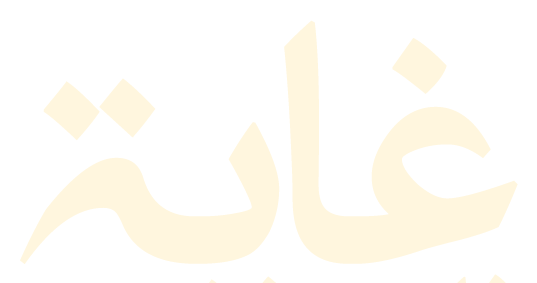
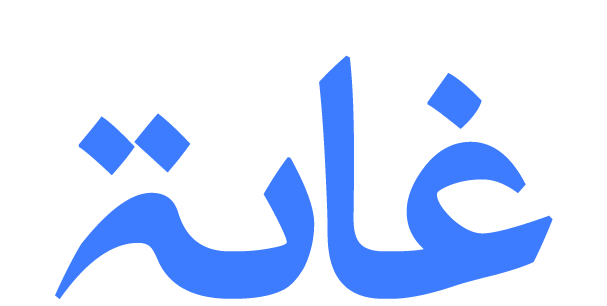
Home page hero/copy rewrite, remove gradient scrim, boost grain, recolor nav mark
- Hero video now shows raw footage with no gradient overlay, matching
  the thisisfr.ee reference
- New hero and "listening" section copy per brief
- GhayaCTA now accepts a custom label so different sections can use
  different CTA text
- Grain overlay opacity bumped from 0.14 to 0.22
- Nav icon recropped with more padding and recolored from cream to
  the brand blue accent, for consistency with the hero wordmark color

diff --git a/app/page.tsx b/app/page.tsx
@@ -33,25 +33,16 @@ export default function Home() {
           loop
           playsInline
         />
-        <div className="absolute inset-0 bg-gradient-to-t from-navy-deep via-navy-deep/50 to-navy-deep/20" />
-        <div className="absolute inset-0 bg-navy-deep/20" />
 
         <div className="relative z-10 w-full px-6 pb-16 md:px-10 md:pb-24">
-          <p className="font-arabic text-6xl leading-none text-fire-soft sm:text-7xl md:text-8xl">
-            غاية
-          </p>
-          <h1 className="mt-4 max-w-3xl font-display text-4xl leading-[1.05] text-balance sm:text-5xl md:text-6xl">
-            Ghaya means passion &amp; purpose.
-            <span className="block text-cream-dim">
-              We help you find yours, and film it.
-            </span>
+          <h1 className="max-w-3xl font-display text-4xl leading-[1.05] text-balance sm:text-5xl md:text-6xl">
+            Human stories come first.
           </h1>
           <p className="mt-6 max-w-xl text-sm text-cream-dim sm:text-base">
-            A production house focused on human storytelling first &mdash;
-            whether it&rsquo;s a narrative documentary or a piece built for
-            social media.
+            We create films built around real people, honest experiences,
+            and ideas worth sharing.
           </p>
-          <GhayaCTA className="mt-10" />
+          <GhayaCTA className="mt-10" label="Tell us your Ghaya" />
         </div>
       </section>
 
@@ -59,16 +50,17 @@ export default function Home() {
       <section className="mx-auto max-w-6xl px-6 py-24 md:px-10 md:py-36">
         <div className="grid gap-12 md:grid-cols-[1fr_1.2fr] md:gap-20">
           <Reveal as="h2" className="font-display text-3xl leading-tight sm:text-4xl">
-            To explore humans and their passion &mdash; and give it a way to
-            be seen.
+            Every good film starts with listening.
           </Reveal>
           <div className="space-y-6 text-cream-dim">
             <Reveal delay={100}>
-              Ghaya is Arabic for <span className="text-cream">purpose</span>.
-              Our goal is simple: discover a person&rsquo;s passion, and
-              explore it until it can be felt by anyone watching &mdash;
-              simple, but something that ignites what&rsquo;s already inside
-              the viewer.
+              At Ghaya Films, we take the time to understand the people
+              behind each story&mdash;what matters to them, what they have
+              experienced, and what deserves to be seen.
+            </Reveal>
+            <Reveal delay={150}>
+              We then shape that into a film that feels honest, thoughtful,
+              and human.
             </Reveal>
             <Reveal delay={200}>
               <Link
@@ -76,7 +68,7 @@ export default function Home() {
                 data-cursor-hover
                 className="inline-flex items-center gap-2 text-cream underline decoration-fire/60 underline-offset-4 transition-colors hover:decoration-fire"
               >
-                Tell us what yours is &rarr;
+                Start a project &rarr;
               </Link>
             </Reveal>
           </div>

diff --git a/components/GhayaCTA.tsx b/components/GhayaCTA.tsx
@@ -2,8 +2,10 @@ import Link from "next/link";
 
 export default function GhayaCTA({
   className = "",
+  label = "let’s find your ghaya?",
 }: {
   className?: string;
+  label?: string;
 }) {
   return (
     <Link
@@ -15,7 +17,7 @@ export default function GhayaCTA({
         className="absolute inset-0 -z-10 scale-0 rounded-full bg-fire/20 blur-xl transition-transform duration-500 group-hover:scale-150"
         aria-hidden="true"
       />
-      let&rsquo;s find your ghaya?
+      {label}
       <span aria-hidden="true" className="transition-transform duration-300 group-hover:translate-x-1">
         &rarr;
       </span>

diff --git a/components/GrainOverlay.tsx b/components/GrainOverlay.tsx
@@ -9,7 +9,7 @@ export default function GrainOverlay({
       className={`pointer-events-none fixed inset-0 z-40 overflow-hidden ${className}`}
     >
       <svg
-        className="grain-pan absolute -inset-1/2 h-[200%] w-[200%] opacity-[0.14]"
+        className="grain-pan absolute -inset-1/2 h-[200%] w-[200%] opacity-[0.22]"
         style={{ isolation: "isolate" }}
       >
         <filter
